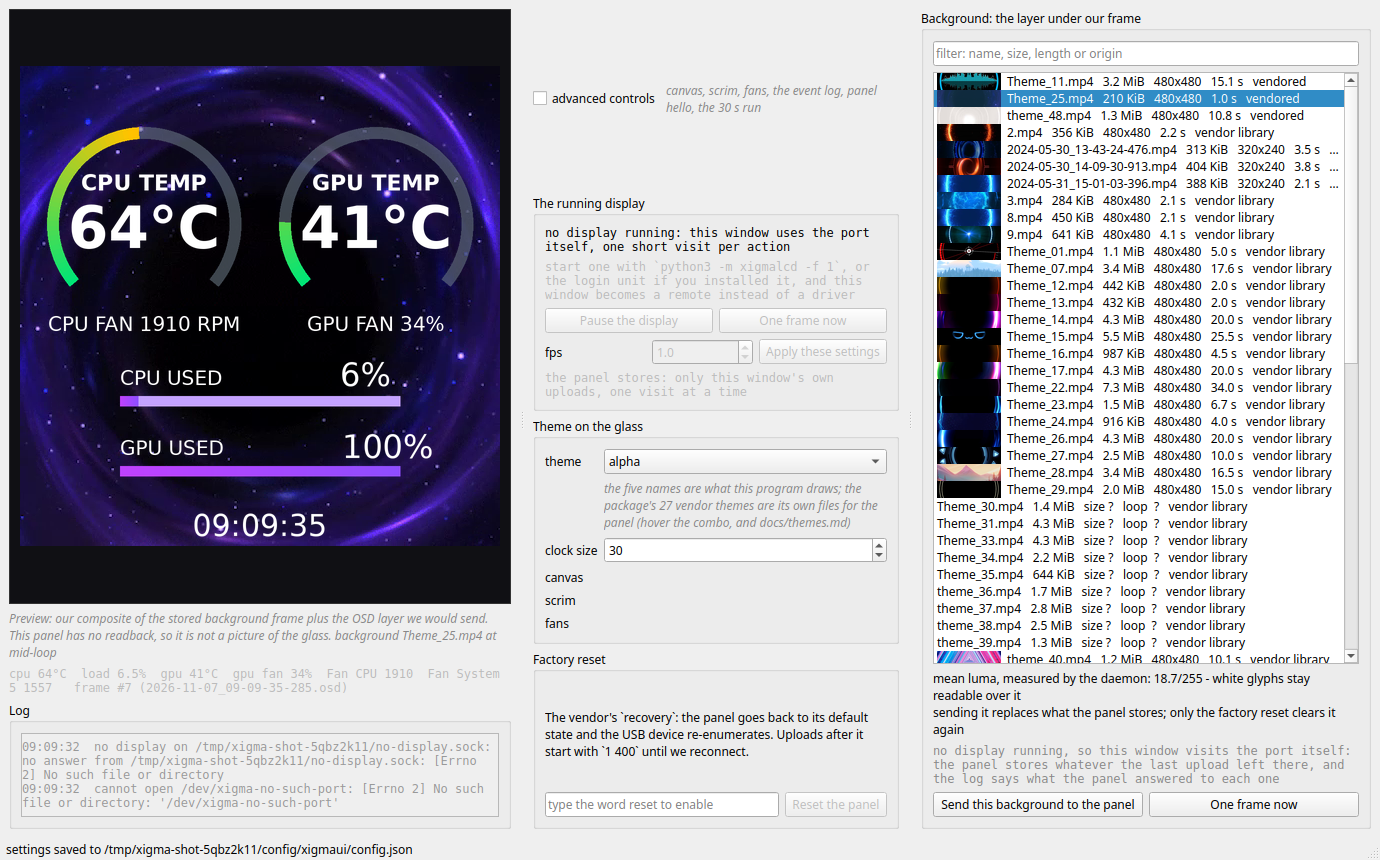
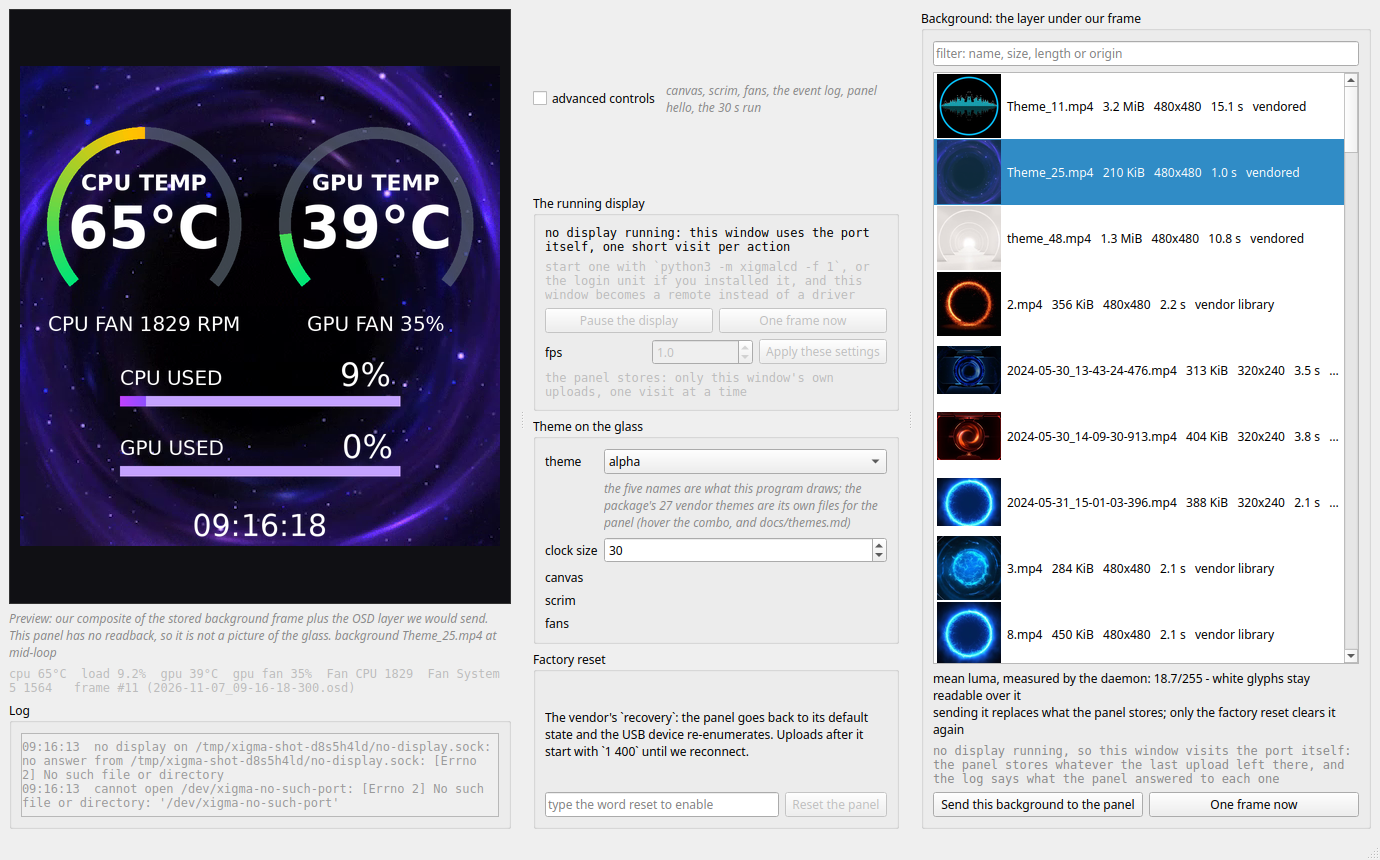
xigmaui, tools: row heights told rather than guessed, thumbnails that keep the file's proportions, and a capture that finishes what it shows
Three things the new layout exposed, all of them visible in the picture it produced.

1. **Uniform row height was latched before any thumbnail existed.** With
   `setUniformItemSizes` the first item's `sizeHint` sizes every row, and that hint is
   taken when the row is text only - so at first paint every row was 17 px tall and the
   icons arriving a tick later were clipped. It measured 66 px only after the lazy pass
   had run and something else re-hinted the view, which is why the earlier check on row
   height passed and the window still looked wrong. Rows are now *told* their height
   (`item.setSizeHint`, icon + 2) instead of asked to guess it, and the suite asserts the
   hint on every row rather than sampling a settled widget.

2. **A stretched thumbnail says something about the file that isn't true.** Three of the
   library's 43 clips are 320x240, and resizing straight into the 64 px square drew a
   4:3 frame as if it were square - right next to a row printing `320x240`. The fit now
   keeps the aspect ratio and letterboxes transparently into the square, so the list's
   own background shows through the bars. The check pins both halves: a 320x240 clip's
   icon has a clear bar (that clip exists in the vendored tree, so the assertion runs
   everywhere) and its centre is opaque. And the rule that the number, not the picture,
   is the evidence is written in docs/gui.md.

3. **The README's capture showed `size ?   loop ?` across most of its visible rows.**
[…]

diff --git a/xigmaui/app.py b/xigmaui/app.py
@@ -795,8 +795,16 @@ class Window(QMainWindow):
             self.clips.addItem("(no MP4 found: media/ is empty and the Windows "
                                "partition is not mounted)")
             return
+        side = self.clips.iconSize().height()
         for c in self.all_clips:
             item = QListWidgetItem(self._row(c))
+            # The row is told its height, not asked to guess it. With
+            # `uniformItemSizes` the first item's sizeHint sets the height for all
+            # of them, and that hint is taken before any thumbnail exists - which
+            # latched every row to 17 px of text and clipped the icons that arrived
+            # a tick later. Measured: 17 px at first paint, 66 px only after the
+            # lazy pass had run and something else re-hinted the view.
+            item.setSizeHint(QSize(0, side + 2))
             item.setData(Qt.ItemDataRole.UserRole, c.path)
             # the daemon's own gate, run here: a row that would come back
             # "the display refused upload: …" is marked before it is ever
@@ -860,10 +868,20 @@ class Window(QMainWindow):
         img = clipdb.frame(clip.path)
         if img is None:
             return
-        side = self.clips.iconSize().width()      # never drift from the widget
-        rgb = img.convert("RGB").resize((side, side), Image.Resampling.LANCZOS)
-        q = QImage(rgb.tobytes("raw", "RGB"), side, side,
-                   QImage.Format.Format_RGB888).copy()
+        # never drift from the widget's icon size.  And the fit keeps the file's
+        # proportions: three of the library's clips are 320x240, and stretching a
+        # 4:3 frame into a 64 px square would show a picture that is not in the
+        # file.  Letterbox instead, transparently, so the list's own background
+        # shows through the bars - and the row's measured `320x240` is the number
+        # a reader should trust about the file.
+        side = self.clips.iconSize().width()
+        thumb = img.convert("RGBA")
+        thumb.thumbnail((side, side), Image.Resampling.LANCZOS)
+        box = Image.new("RGBA", (side, side), (0, 0, 0, 0))
+        box.paste(thumb, ((side - thumb.width) // 2, (side - thumb.height) // 2),
+                  thumb)
+        q = QImage(box.tobytes("raw", "RGBA"), side, side, side * 4,
+                   QImage.Format.Format_RGBA8888).copy()
         item.setIcon(QIcon(QPixmap.fromImage(q)))
 
     def _clip_chosen(self, item: QListWidgetItem | None, *_a) -> None:

diff --git a/tools/screenshot.py b/tools/screenshot.py
@@ -134,6 +134,22 @@ def main() -> int:
         pending = getattr(win, "_pending", [])
         if len(win.all_clips) - len(pending) >= a.keep_thumbnails:
             break
+    # and every row the frame can actually show carries its numbers: the probe
+    # pass is one clip per timer tick by design (115 ffmpeg seeks is 12.7 s on this
+    # box and the rows below the fold are not the rows you are looking at), which
+    # in a picture means a third of the visible list still reads `size ?  loop ?`.
+    # So the visible rows are finished before the grab, through the window's own
+    # batching, and nothing else about the lazy pass changes.
+    from xigmaui import clips as clipdb
+    row_h = win.clips.visualItemRect(win.clips.item(0)).height() or 1
+    shown = min(len(win.all_clips), win.clips.viewport().height() // row_h + 1)
+    win._pending = [i for i in range(shown)
+                    if not win.all_clips[i].px[0]] + list(win._pending)
+    for _ in range(shown):
+        if not win._pending:
+            break
+        win._thumb_batch()
+        app.processEvents()
     done = len(win.all_clips) - len(getattr(win, "_pending", []))
     pm = win.grab()
     pm.save(a.out, "PNG")

diff --git a/docs/gui.md b/docs/gui.md
@@ -111,7 +111,11 @@ number in that shape comes from a measurement, most of them of a failure:
 * **the log sits under the picture**, in the preview column, because that is the one
   place with height to spare: the frame is 480 px and is never scaled up, so a tall
   window leaves room there nothing else can honestly fill - while every pixel of the
-  library column is another clip row. The picture still keeps first call on that
+  library column is another clip row - with one caveat about the picture: a thumbnail is drawn into a
+  64 px square, and a clip that is not the panel's shape (3 of the library's are
+  320×240) is letterboxed into it rather than stretched, so the square in the list is
+  not a claim about the file's proportions. The `320x240` on the row is.
+  The picture still keeps first call on that
   column's height (stretch 6 against the log's), so the log scrolls rather than
   shrinking the glass; the list has a 150 px floor and the log an 84 px one, so a
   short window scrolls instead of turning the picker into a strip;
